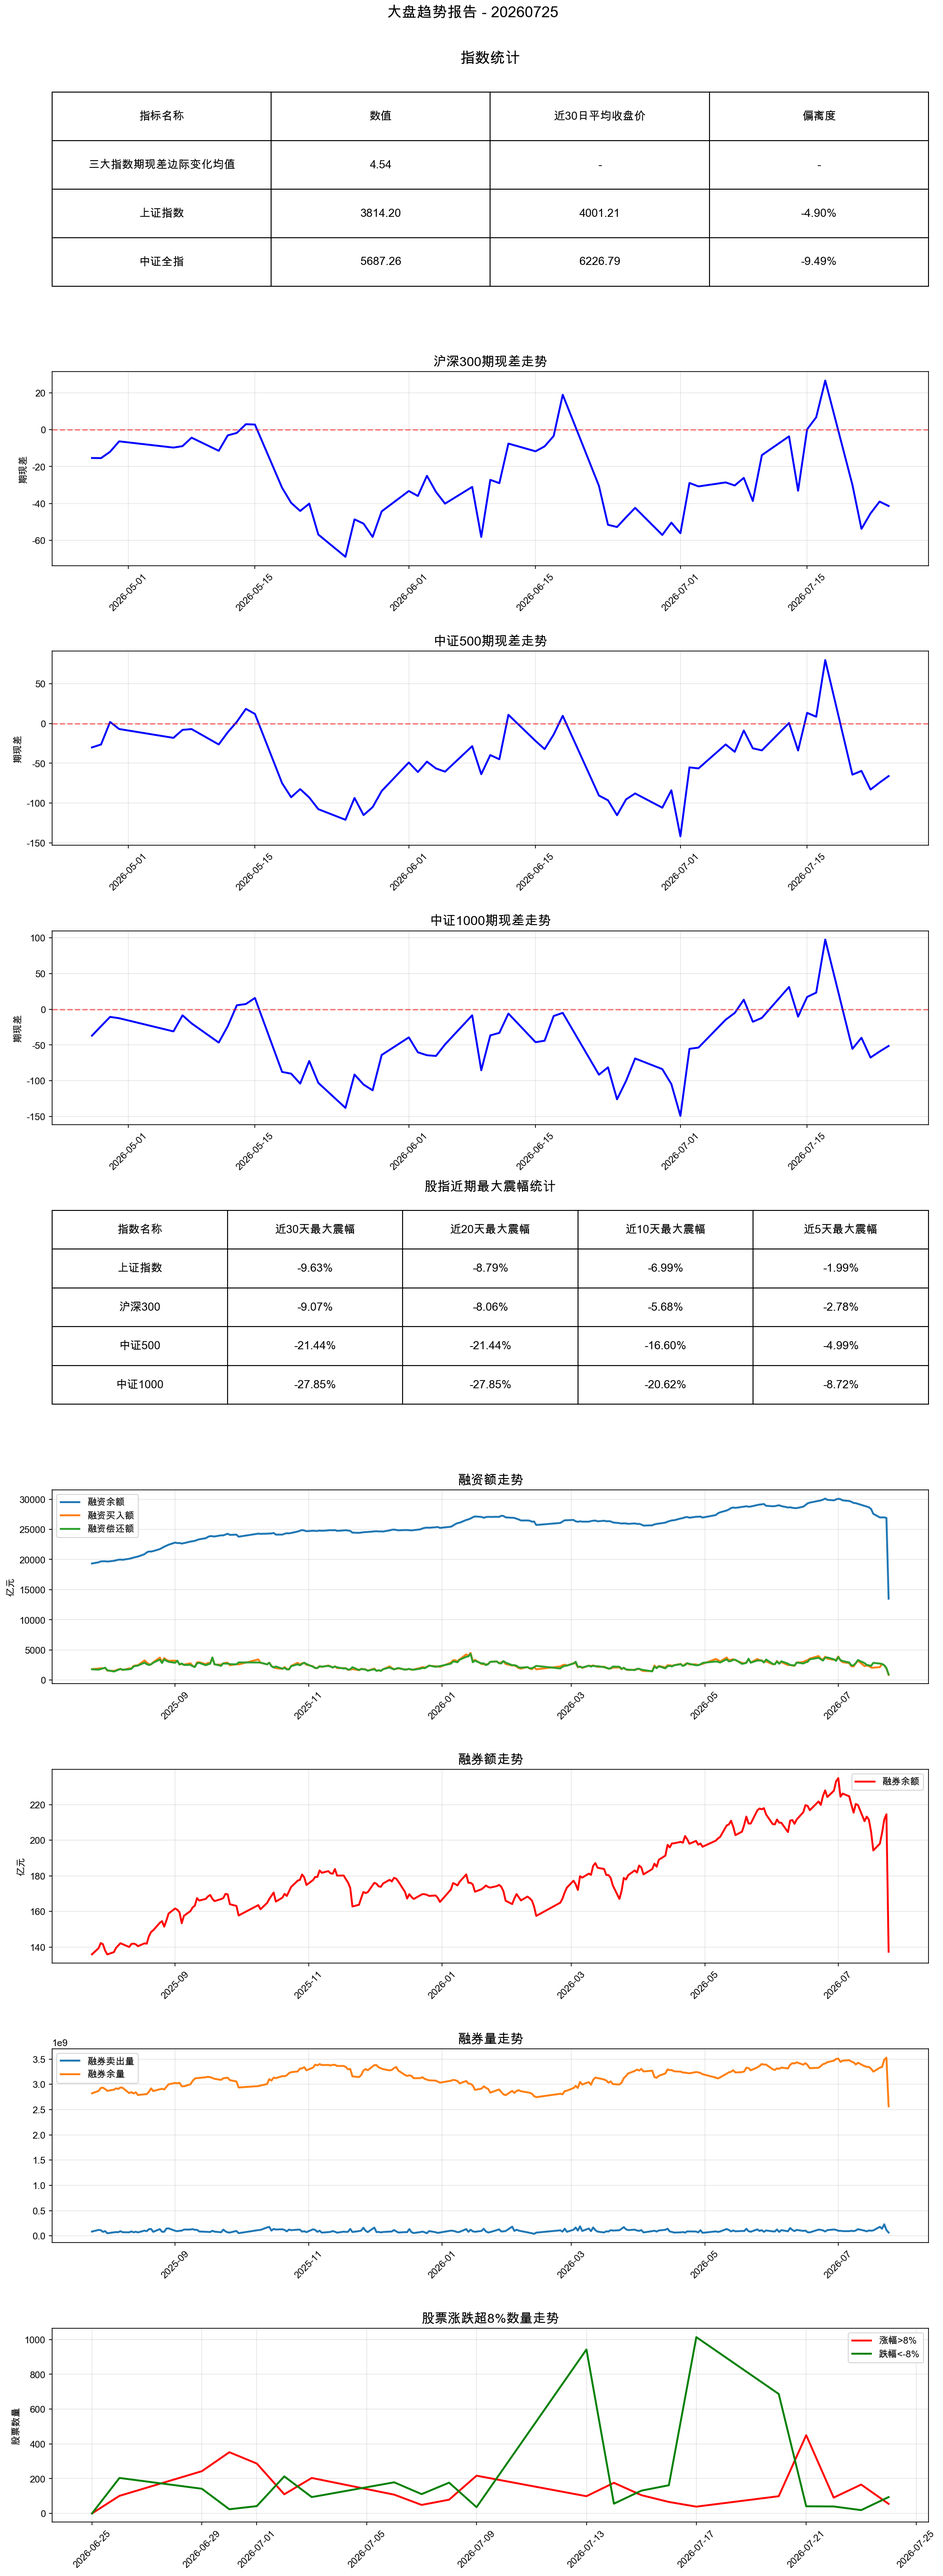
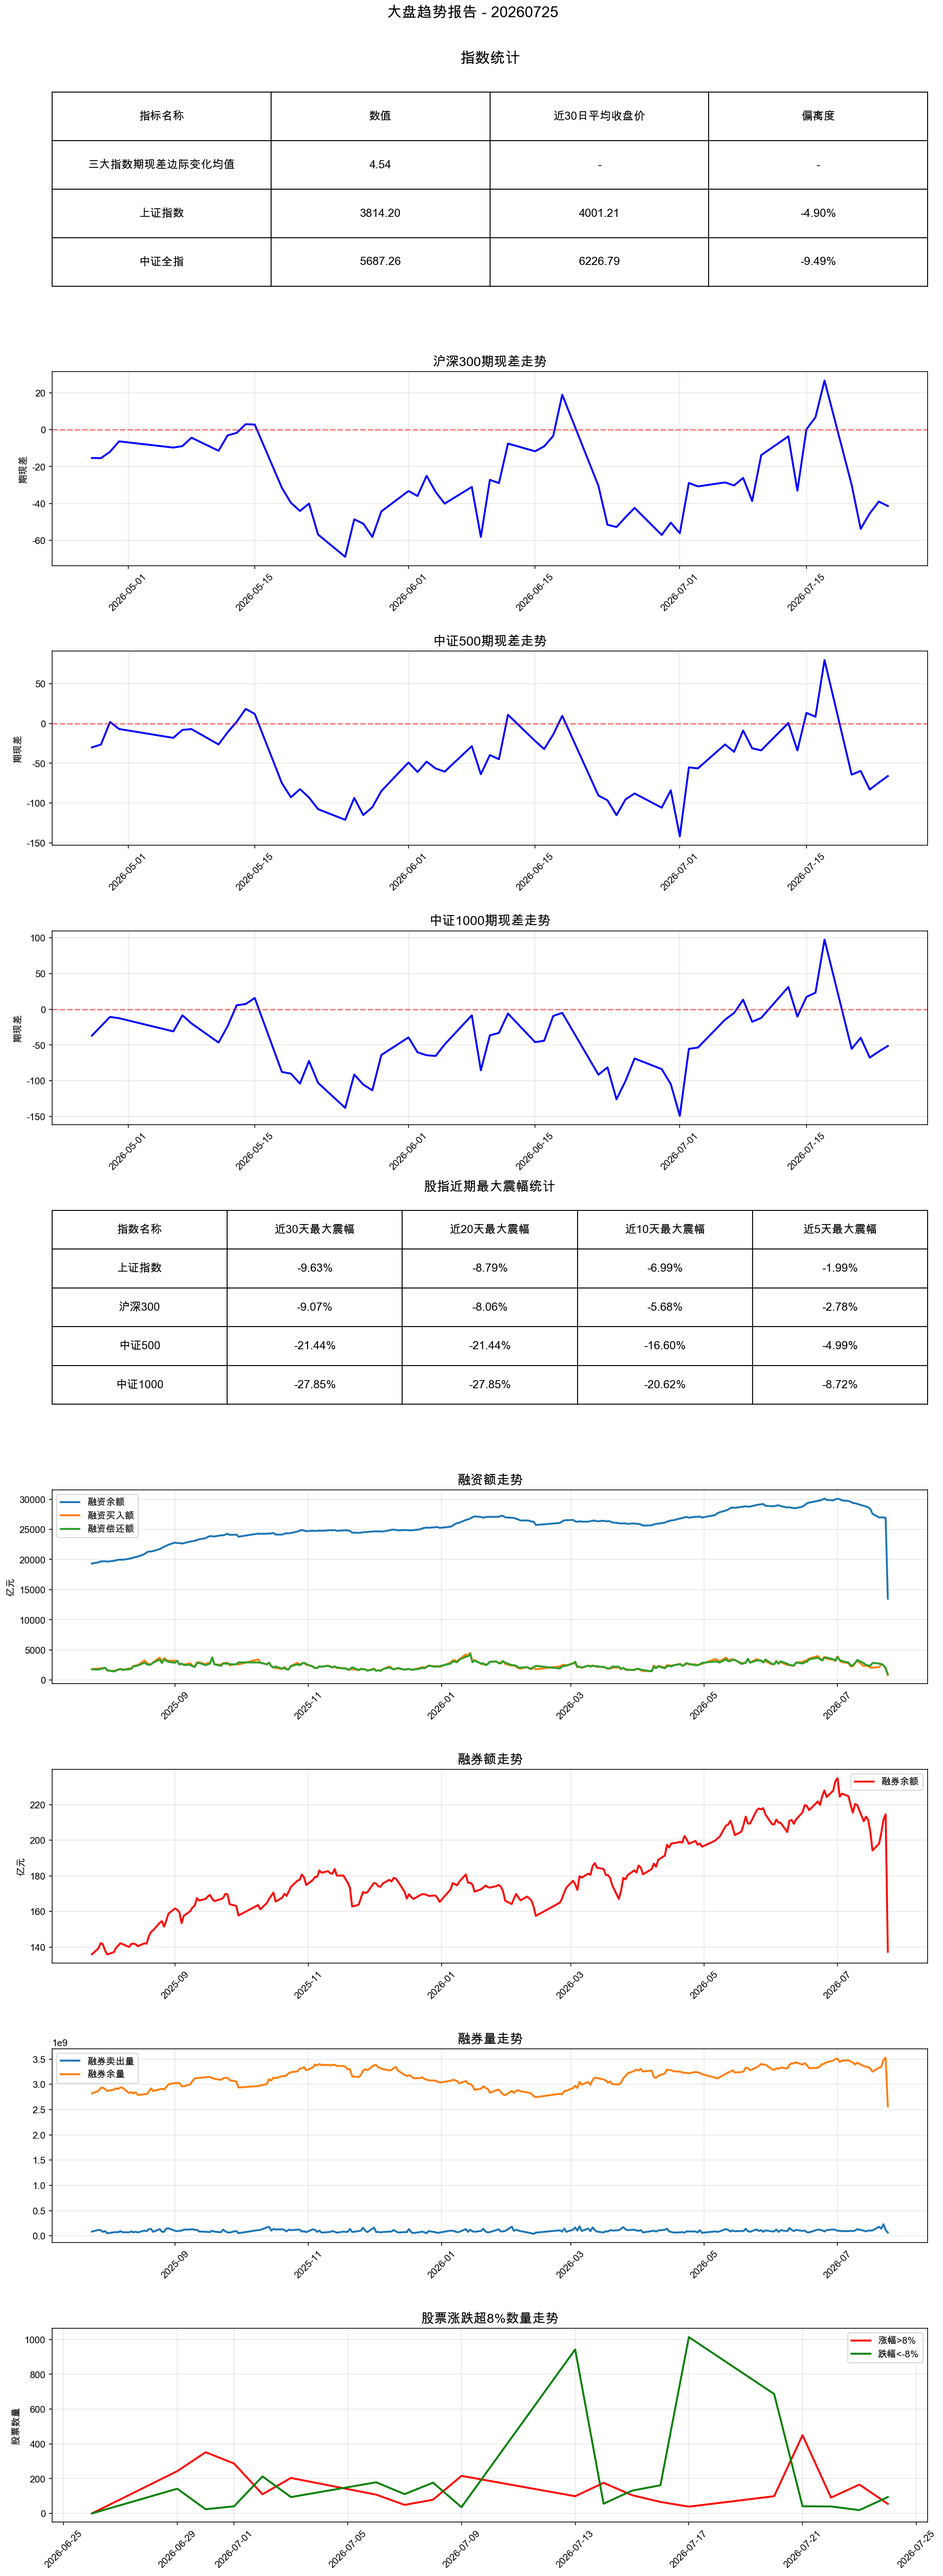
更新定时任务脚本和MA计算脚本

diff --git a/update_stock_ma5_ma30.py b/update_stock_ma5_ma30.py
@@ -23,7 +23,7 @@ def read_stock_data():
         SELECT DISTINCT trade_date
         FROM stock_daily_t
         ORDER BY trade_date DESC
-        LIMIT 50
+        LIMIT 30
     ) t ON d.trade_date = t.trade_date
     ORDER BY d.ts_code, d.trade_date DESC
     """
